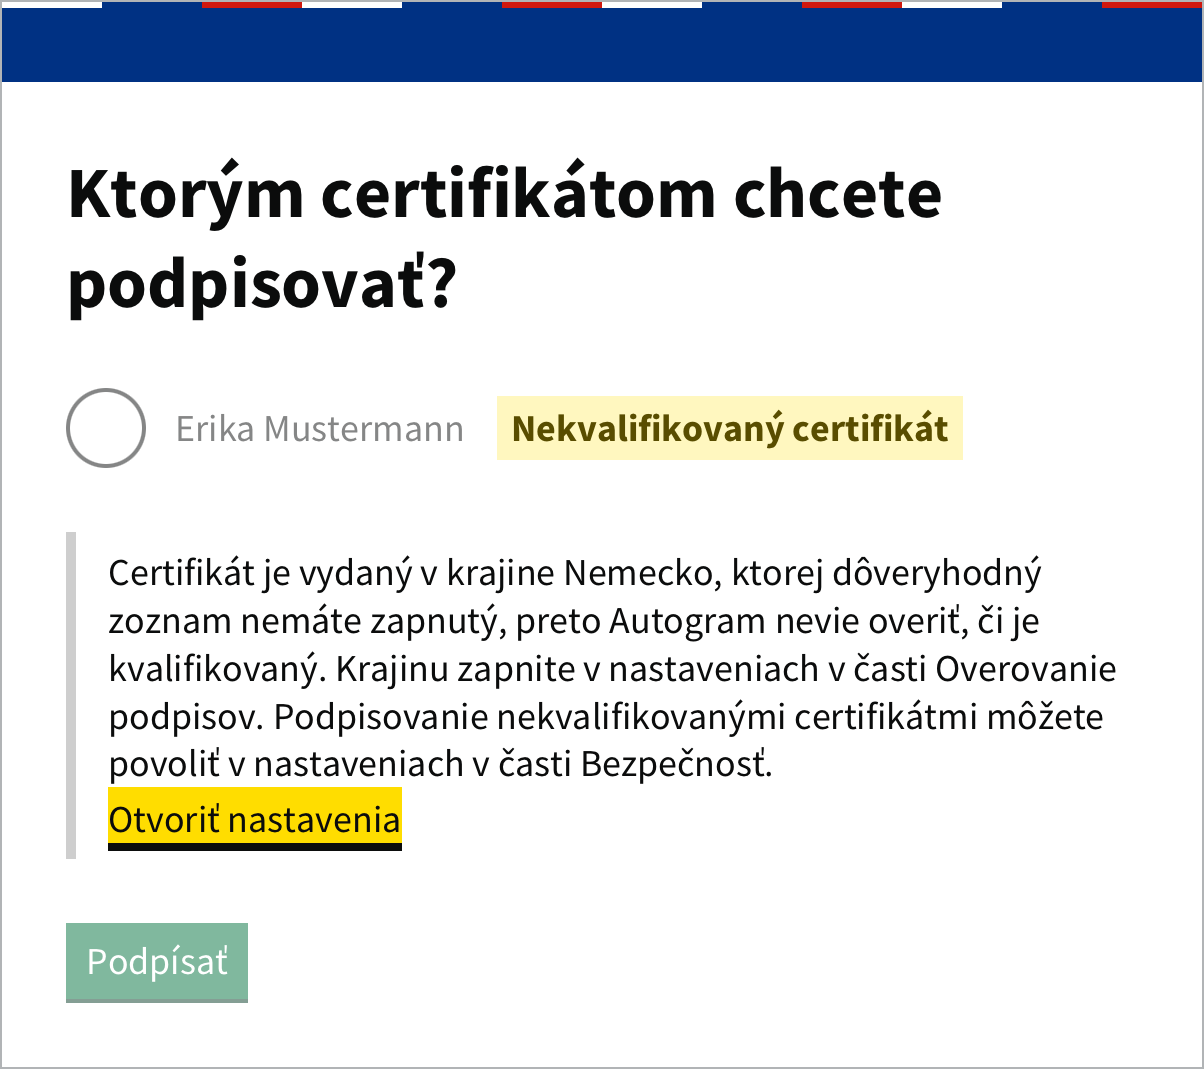
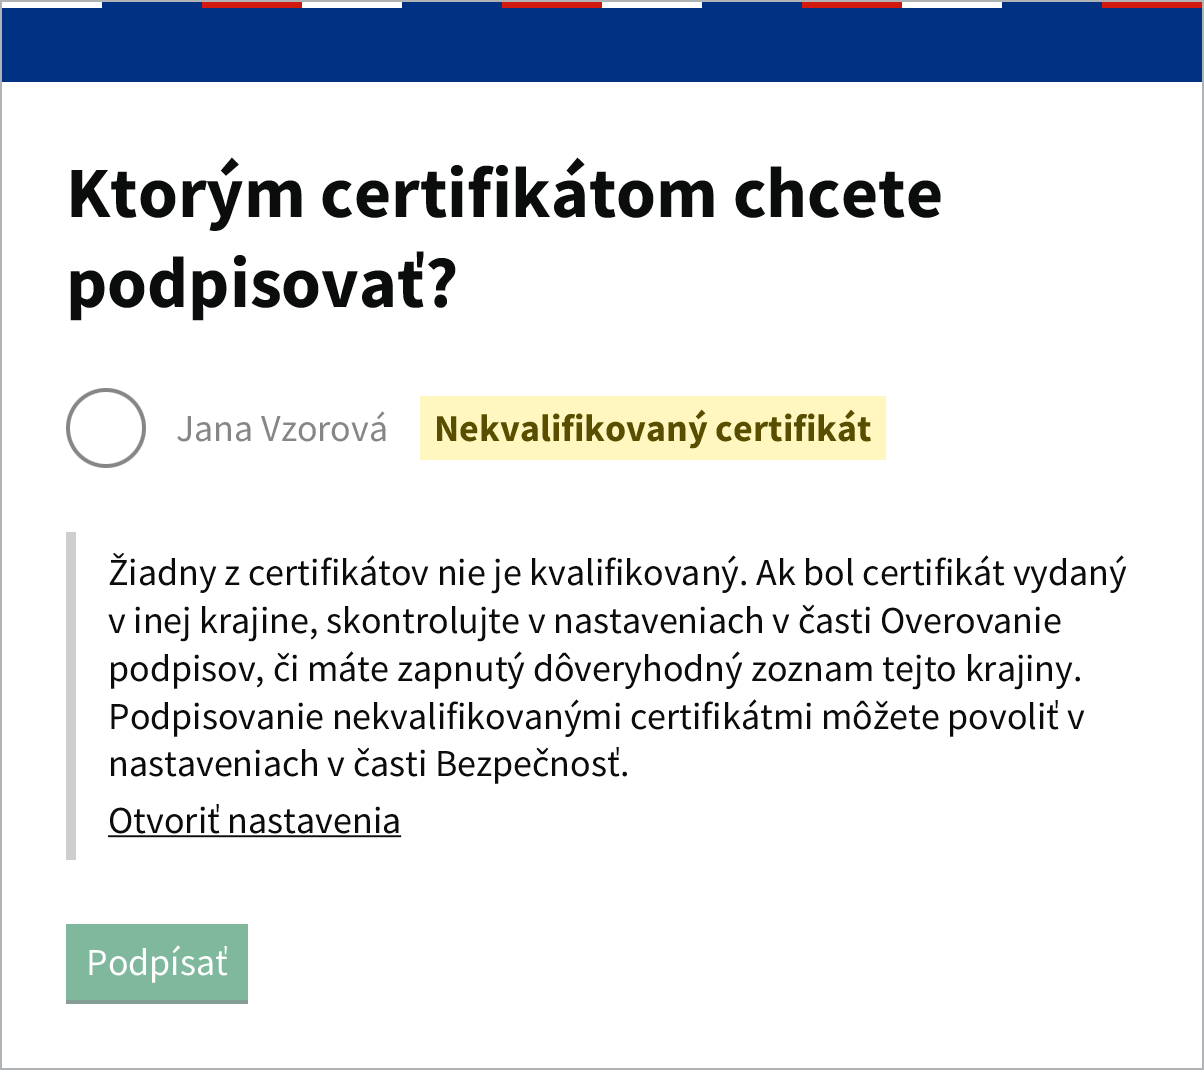
document adding the countries from the certificate selection

Changed region(s): [[0.0922, 0.5248, 0.9527, 0.8026], [0.1537, 0.3704, 0.799, 0.4322], [0.2151, 0.247, 0.2458, 0.2778]]

diff --git a/docs/docs/sk/card-and-pin.md b/docs/docs/sk/card-and-pin.md
@@ -93,14 +93,19 @@ Overovanie zvyčajne trvá zlomok sekundy. Krátko po spustení Autogramu ešte 
 | --- | --- | --- |
 | **Zrušený certifikát** | Certifikačná autorita certifikát zrušila. Podpis ním nie je platný. | Iba ak je v [Nastaveniach](settings.md#bezpecnost) zapnuté **Povoliť podpisovanie exspirovanými a zrušenými certifikátmi** |
 | **Nekvalifikovaný certifikát** | Certifikát nie je kvalifikovaný podľa dôveryhodných zoznamov. | Iba ak je v [Nastaveniach](settings.md#bezpecnost) zapnuté **Povoliť podpisovanie nekvalifikovanými certifikátmi** |
-| **Platnosť sa nepodarilo overiť** | Autogram nezistil, či certifikát nebol zrušený alebo či je kvalifikovaný. Napríklad nemá pripojenie na internet alebo sa nepodarilo stiahnuť dôveryhodný zoznam krajiny, v ktorej bol certifikát vydaný. | Áno |
+| **Platnosť sa nepodarilo overiť** | Autogram nezistil, či certifikát nebol zrušený. Napríklad nemá pripojenie na internet. | Áno |
+| **Kvalifikáciu sa nepodarilo overiť** | Autogram nezistil, či je certifikát kvalifikovaný. Napríklad sa nepodarilo stiahnuť dôveryhodný zoznam krajiny, v ktorej bol certifikát vydaný, alebo túto krajinu nemáte pridanú v [Nastaveniach](settings.md#overovanie-podpisov). | Áno |
 | **Exspirovaný certifikát** | Platnosť certifikátu uplynula. Takéto certifikáty sa zobrazia, iba ak je v Nastaveniach zapnuté **Povoliť podpisovanie exspirovanými a zrušenými certifikátmi**. | Áno |
 
 Ak sa niektorý certifikát nepodarilo overiť, Autogram na to pod zoznamom upozorní. Podpísať ním môžete aj tak, napríklad keď práve nemáte pripojenie na internet. Nie je však isté, či bude podpis v poriadku.
 
 ![Certifikáty, ktoré sa nepodarilo overiť](/assets/images/screenshots/sk/certificate-picker-offline.png)
 
-Ak nie je kvalifikovaný žiadny certifikát, Autogram pod nimi zobrazí radu s odkazom **Otvoriť nastavenia**. Najčastejšie je príčinou to, že certifikát vydala certifikačná autorita z krajiny, ktorej dôveryhodný zoznam nemáte zapnutý. Autogram vtedy túto krajinu v rade uvedie. Keď nastavenia zatvoríte, výber certifikátu sa zobrazí znova.
+Ak certifikát vydala certifikačná autorita z krajiny, ktorú nemáte pridanú v [Nastaveniach](settings.md#overovanie-podpisov), Autogram nevie overiť, či je kvalifikovaný, a pod certifikátmi na to upozorní. Kliknite na tlačidlo v upozornení, napríklad **Pridať krajinu Nemecko**: Autogram krajinu pridá v nastaveniach a certifikáty overí znova. Podpísať môžete aj bez toho.
+
+![Upozornenie, že Autogram nemá nastavené overovanie certifikátov z krajiny, s tlačidlom, ktoré ju pridá](/assets/images/screenshots/sk/certificate-picker-country-off.png)
+
+Ak nie je kvalifikovaný žiadny certifikát, Autogram pod nimi zobrazí radu s odkazom **Otvoriť nastavenia**. Podpisovanie nekvalifikovanými certifikátmi môžete povoliť v časti [Bezpečnosť](settings.md#bezpecnost). Keď nastavenia zatvoríte, výber certifikátu sa zobrazí znova.
 
 ![Rada, keď nie je kvalifikovaný žiadny certifikát](/assets/images/screenshots/sk/certificate-picker-hint.png)
 

diff --git a/docs/docs/en/card-and-pin.md b/docs/docs/en/card-and-pin.md
@@ -93,14 +93,19 @@ The check usually takes a fraction of a second. Shortly after Autogram starts, i
 | --- | --- | --- |
 | **Revoked certificate** | The certification authority revoked the certificate. A signature made with it is not valid. | Only if **Allow signing with expired and revoked certificates** is turned on in [Settings](settings.md#security) |
 | **Non-qualified certificate** | The certificate is not qualified according to the trusted lists. | Only if **Allow signing with non-qualified certificates** is turned on in [Settings](settings.md#security) |
-| **Validity could not be verified** | Autogram could not find out whether the certificate was revoked or whether it is qualified. For example, there is no internet connection, or the trusted list of the country that issued the certificate could not be downloaded. | Yes |
+| **Validity could not be verified** | Autogram could not find out whether the certificate was revoked. For example, there is no internet connection. | Yes |
+| **Qualification could not be verified** | Autogram could not find out whether the certificate is qualified. For example, the trusted list of the country that issued the certificate could not be downloaded, or the country is not added in [Settings](settings.md#signature-validation). | Yes |
 | **Expired certificate** | The certificate has expired. Such certificates are shown only if **Allow signing with expired and revoked certificates** is turned on in Settings. | Yes |
 
 If a certificate could not be verified, Autogram shows a warning below the list. You can still sign with it, for example when you are offline at the moment. It is not certain, though, that the signature will be valid.
 
 ![Certificates that could not be verified](/assets/images/screenshots/en/certificate-picker-offline.png)
 
-If none of the certificates is qualified, Autogram shows a hint below them with an **Open settings** link. The most common reason is that the certificate was issued by a certification authority from a country whose trusted list is turned off. Autogram then names that country in the hint. When you close the settings, the certificate selection appears again.
+If the certificate was issued by a certification authority from a country that is not added in [Settings](settings.md#signature-validation), Autogram cannot verify whether it is qualified and says so below the certificates. Click the button in the warning, for example **Add Germany**: Autogram adds the country in the settings and checks the certificates again. You can also sign without it.
+
+![Warning that Autogram is not set up to check certificates from a country, with a button that adds it](/assets/images/screenshots/en/certificate-picker-country-off.png)
+
+If none of the certificates is qualified, Autogram shows a hint below them with an **Open settings** link. You can allow signing with non-qualified certificates under [Security](settings.md#security). When you close the settings, the certificate selection appears again.
 
 ![Hint when none of the certificates is qualified](/assets/images/screenshots/en/certificate-picker-hint.png)
 

diff --git a/docs/docs/en/settings.md b/docs/docs/en/settings.md
@@ -31,7 +31,7 @@ For a timestamp to be recognised during validation, its provider must be qualifi
 
 The list of EU countries whose trusted lists Autogram uses to validate signatures. By default, Slovakia, Czechia, Austria, Poland, Hungary, Belgium, the Netherlands and Spain are on. If you receive documents signed with a certificate from another country, turn it on. When Autogram cannot validate a signature because of that, it tells you and adds the country with one click. More countries slow down validation.
 
-Autogram also uses these lists to find out whether the certificate you sign with is qualified. If your certificate is from another country, turn that country on too, otherwise Autogram marks the certificate as non-qualified in the [certificate selection](card-and-pin.md#choosing-the-certificate).
+Autogram also uses these lists to find out whether the certificate you sign with is qualified. If your certificate is from another country, turn that country on too, otherwise Autogram cannot verify whether it is qualified in the [certificate selection](card-and-pin.md#choosing-the-certificate).
 
 ## Security {#security}
 

diff --git a/docs/docs/sk/settings.md b/docs/docs/sk/settings.md
@@ -31,7 +31,7 @@ Aby bola časová pečiatka pri overovaní uznaná, jej poskytovateľ musí byť
 
 Zoznam krajín EÚ, podľa ktorých dôveryhodných zoznamov Autogram overuje podpisy. Predvolene sú zapnuté Slovensko, Česko, Rakúsko, Poľsko, Maďarsko, Belgicko, Holandsko a Španielsko. Ak dostávate dokumenty podpísané certifikátom z inej krajiny, zapnite ju. Autogram vás na to upozorní pri podpise, ktorý preto nevie overiť, a krajinu pridá jedným kliknutím. Viac krajín overovanie spomalí.
 
-Podľa týchto zoznamov Autogram zisťuje aj to, či je kvalifikovaný certifikát, ktorým podpisujete. Ak máte certifikát z inej krajiny, zapnite aj ju, inak ho Autogram vo [výbere certifikátu](card-and-pin.md#vyber-certifikatu) označí ako nekvalifikovaný.
+Podľa týchto zoznamov Autogram zisťuje aj to, či je kvalifikovaný certifikát, ktorým podpisujete. Ak máte certifikát z inej krajiny, zapnite aj ju, inak Autogram vo [výbere certifikátu](card-and-pin.md#vyber-certifikatu) nevie overiť, či je kvalifikovaný.
 
 ## Bezpečnosť {#bezpecnost}
 
